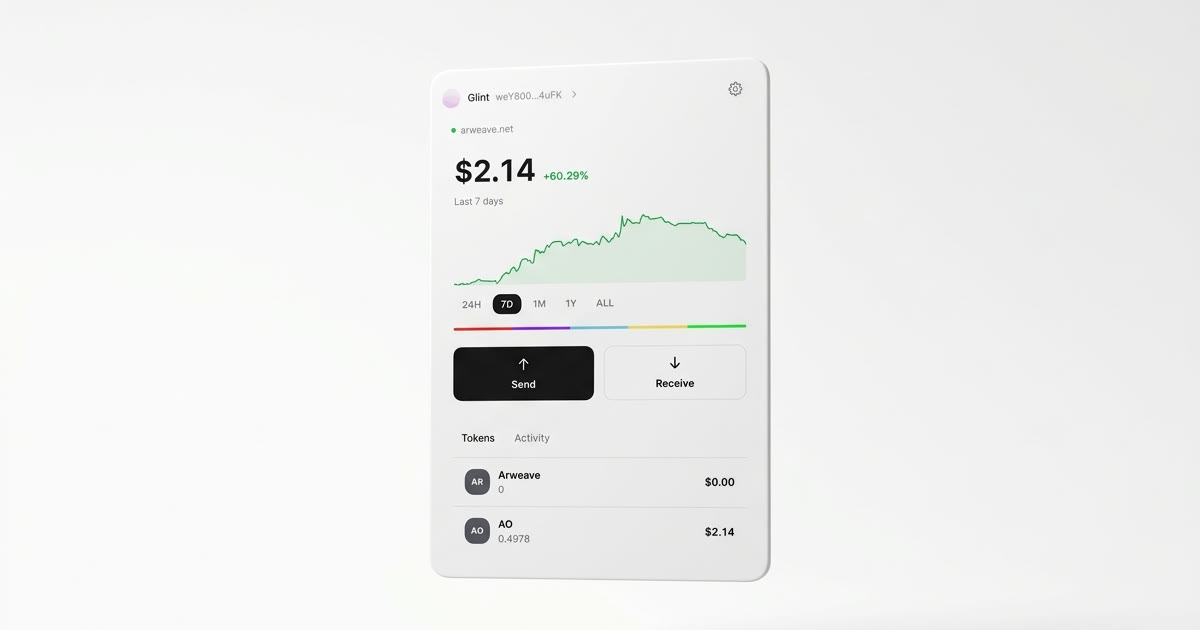
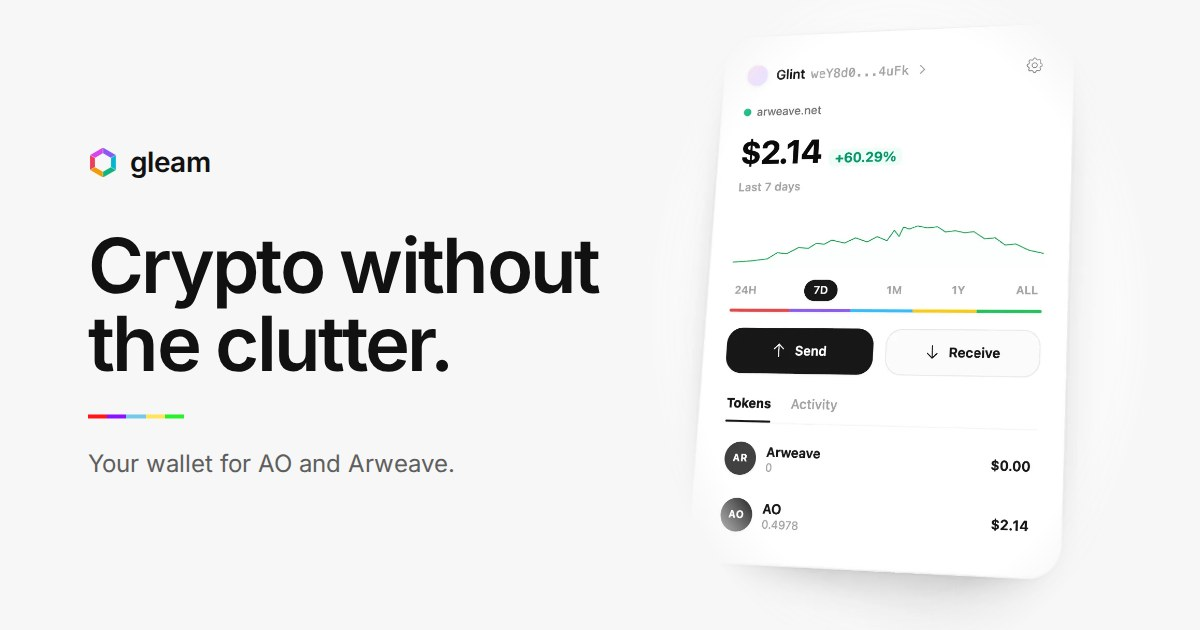
feat(site): branded Open Graph card and full share tags on every page
Claude-Session: https://claude.ai/code/session_017bi56C8ZBzkRU6MKkVMxjN

diff --git a/apps/site/index.html b/apps/site/index.html
@@ -15,14 +15,18 @@
   <meta property="og:title" content="Gleam: crypto without the clutter">
   <meta property="og:description" content="Gleam is a wallet for AO and Arweave. Open it, do the thing, done.">
   <meta property="og:url" content="https://skyf0xx.github.io/gleam-arweave-ao-hyperbeam-wallet/">
-  <meta property="og:image" content="https://skyf0xx.github.io/gleam-arweave-ao-hyperbeam-wallet/img/og.jpg">
+  <meta property="og:image" content="https://skyf0xx.github.io/gleam-arweave-ao-hyperbeam-wallet/img/og.jpg?v=2">
   <meta property="og:image:width" content="1200">
   <meta property="og:image:height" content="630">
+  <meta property="og:image:type" content="image/jpeg">
+  <meta property="og:image:alt" content="gleam: Crypto without the clutter. Your wallet for AO and Arweave. Beside it, the Gleam wallet home screen.">
+  <meta property="og:locale" content="en_US">
   <meta name="twitter:card" content="summary_large_image">
   <meta name="twitter:site" content="@gleam_wallet">
   <meta name="twitter:title" content="Gleam: crypto without the clutter">
   <meta name="twitter:description" content="Gleam is a wallet for AO and Arweave. Open it, do the thing, done.">
-  <meta name="twitter:image" content="https://skyf0xx.github.io/gleam-arweave-ao-hyperbeam-wallet/img/og.jpg">
+  <meta name="twitter:image" content="https://skyf0xx.github.io/gleam-arweave-ao-hyperbeam-wallet/img/og.jpg?v=2">
+  <meta name="twitter:image:alt" content="gleam: Crypto without the clutter. Your wallet for AO and Arweave. Beside it, the Gleam wallet home screen.">
   <link rel="preload" as="font" type="font/woff2" href="fonts/inter-var-latin.woff2" crossorigin>
   <link rel="preload" as="image" imagesrcset="img/dashboard-hero-502.webp 502w, img/dashboard-hero-1004.webp 1004w" imagesizes="(max-width: 900px) min(520px, 100vw), 45vw">
   <link rel="stylesheet" href="styles.css">

diff --git a/apps/site/privacy.html b/apps/site/privacy.html
@@ -10,6 +10,23 @@
   <link rel="icon" href="favicon.svg" type="image/svg+xml">
   <link rel="icon" href="favicon-32.png" type="image/png" sizes="32x32">
   <link rel="apple-touch-icon" href="apple-touch-icon.png">
+  <meta property="og:type" content="website">
+  <meta property="og:site_name" content="Gleam">
+  <meta property="og:title" content="Privacy: Gleam">
+  <meta property="og:description" content="What the Gleam wallet and this website collect, store and send. Short version: we have no server.">
+  <meta property="og:url" content="https://skyf0xx.github.io/gleam-arweave-ao-hyperbeam-wallet/privacy.html">
+  <meta property="og:image" content="https://skyf0xx.github.io/gleam-arweave-ao-hyperbeam-wallet/img/og.jpg?v=2">
+  <meta property="og:image:width" content="1200">
+  <meta property="og:image:height" content="630">
+  <meta property="og:image:type" content="image/jpeg">
+  <meta property="og:image:alt" content="gleam: Crypto without the clutter. Your wallet for AO and Arweave. Beside it, the Gleam wallet home screen.">
+  <meta property="og:locale" content="en_US">
+  <meta name="twitter:card" content="summary_large_image">
+  <meta name="twitter:site" content="@gleam_wallet">
+  <meta name="twitter:title" content="Privacy: Gleam">
+  <meta name="twitter:description" content="What the Gleam wallet and this website collect, store and send. Short version: we have no server.">
+  <meta name="twitter:image" content="https://skyf0xx.github.io/gleam-arweave-ao-hyperbeam-wallet/img/og.jpg?v=2">
+  <meta name="twitter:image:alt" content="gleam: Crypto without the clutter. Your wallet for AO and Arweave. Beside it, the Gleam wallet home screen.">
   <link rel="stylesheet" href="styles.css">
 </head>
 <body>

diff --git a/docs/branding/og-card.html b/docs/branding/og-card.html
@@ -1,0 +1,24 @@
+<!doctype html>
+<html lang="en"><head><meta charset="utf-8"><link rel="stylesheet" href="../../apps/site/styles.css">
+<!-- Source for apps/site/img/og.jpg (1200×630). Serve the repo root, open this file at 1200×630 and screenshot it as JPEG. -->
+<style>
+  html, body { margin: 0; width: 1200px; height: 630px; overflow: hidden; background: var(--bg); }
+  .card { position: relative; width: 1200px; height: 630px; }
+  .text { position: absolute; left: 88px; top: 50%; transform: translateY(-50%); width: 560px; }
+  .text .wordmark { font-size: 1.75rem; gap: 12px; }
+  .text .wordmark img { width: 30px; height: 30px; }
+  .text h1 { margin: 44px 0 0; font-weight: 600; font-size: 76px; line-height: 1.02; letter-spacing: -0.035em; color: var(--fg); }
+  .text .beam { margin-top: 32px; width: 96px; height: 4px; }
+  .text p { margin: 28px 0 0; font-size: 24px; color: var(--muted); }
+  .shot { position: absolute; right: 40px; top: -40px; width: 520px; }
+  .shot img { width: 100%; -webkit-mask-image: radial-gradient(closest-side, #000 80%, transparent 100%); mask-image: radial-gradient(closest-side, #000 80%, transparent 100%); }
+</style></head>
+<body><div class="card">
+  <div class="text">
+    <span class="wordmark"><img src="../../apps/site/favicon.svg" alt="">gleam</span>
+    <h1>Crypto without the clutter.</h1>
+    <div class="beam"><span></span><span></span><span></span><span></span><span></span></div>
+    <p>Your wallet for AO and Arweave.</p>
+  </div>
+  <div class="shot"><img src="../../apps/site/img/dashboard-hero-1004.webp" alt=""></div>
+</div></body></html>

diff --git a/apps/site/terms.html b/apps/site/terms.html
@@ -10,6 +10,23 @@
   <link rel="icon" href="favicon.svg" type="image/svg+xml">
   <link rel="icon" href="favicon-32.png" type="image/png" sizes="32x32">
   <link rel="apple-touch-icon" href="apple-touch-icon.png">
+  <meta property="og:type" content="website">
+  <meta property="og:site_name" content="Gleam">
+  <meta property="og:title" content="Terms: Gleam">
+  <meta property="og:description" content="The terms for using the Gleam wallet.">
+  <meta property="og:url" content="https://skyf0xx.github.io/gleam-arweave-ao-hyperbeam-wallet/terms.html">
+  <meta property="og:image" content="https://skyf0xx.github.io/gleam-arweave-ao-hyperbeam-wallet/img/og.jpg?v=2">
+  <meta property="og:image:width" content="1200">
+  <meta property="og:image:height" content="630">
+  <meta property="og:image:type" content="image/jpeg">
+  <meta property="og:image:alt" content="gleam: Crypto without the clutter. Your wallet for AO and Arweave. Beside it, the Gleam wallet home screen.">
+  <meta property="og:locale" content="en_US">
+  <meta name="twitter:card" content="summary_large_image">
+  <meta name="twitter:site" content="@gleam_wallet">
+  <meta name="twitter:title" content="Terms: Gleam">
+  <meta name="twitter:description" content="The terms for using the Gleam wallet.">
+  <meta name="twitter:image" content="https://skyf0xx.github.io/gleam-arweave-ao-hyperbeam-wallet/img/og.jpg?v=2">
+  <meta name="twitter:image:alt" content="gleam: Crypto without the clutter. Your wallet for AO and Arweave. Beside it, the Gleam wallet home screen.">
   <link rel="stylesheet" href="styles.css">
 </head>
 <body>
